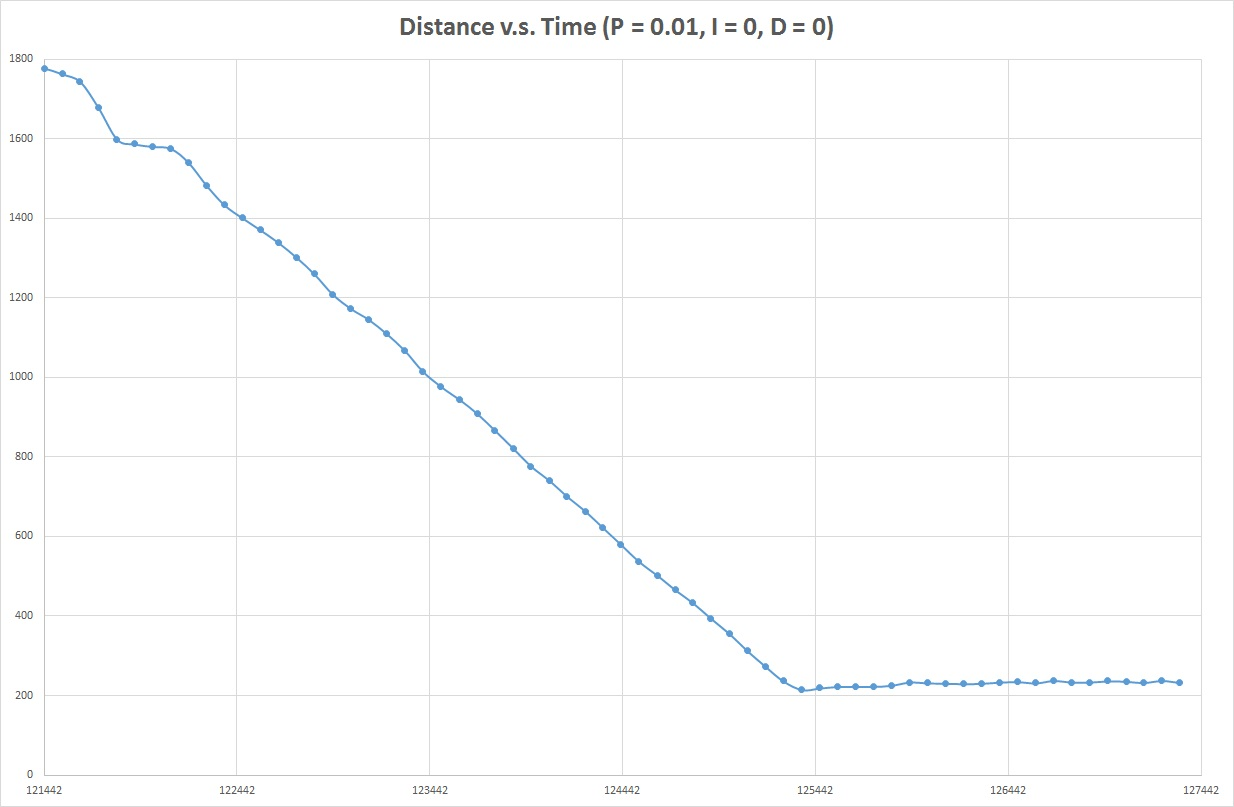
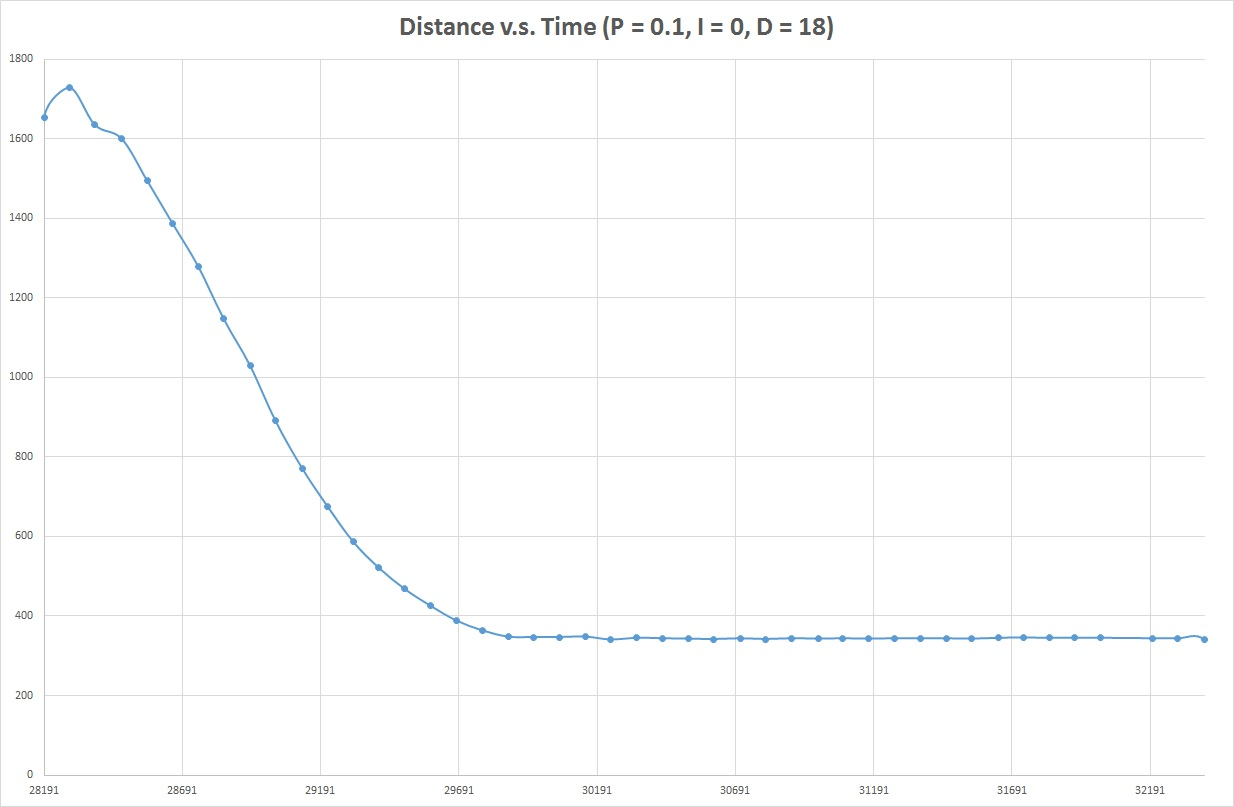
lab6

diff --git a/category/lab6.md b/category/lab6.md
@@ -27,6 +27,14 @@ Also, added a corresponding entry in **connection.yaml**.
 PID_STRING: 'D4FAA1B0-CA9E-457F-BBE3-537DC0B77EBB'
 {% endhighlight %}
 
+Finally, add notify to retrieve data.
+{% highlight python linenos %}
+def receiver(stub, bytearr):
+    print(ble.bybtearray_to_string(bytearr))
+
+ble.start_notify(ble.uuid["PID_STRING"], receiver)
+{% endhighlight %}
+
 ## 2. Task A: Don’t Hit the Wall!!
 
 ### Switched to Pololu ToF library
@@ -235,9 +243,15 @@ void get_tof()
 }
 {% endhighlight %}
 
-I tested P-value starting from 0.01 up to 0.5, and I found **`P = 0.1`** is the one that can let the car reaches full duty cycle with a tiny oscillation.
+I tested P-value starting from 0.01 up to 0.5, and I found **`P = 0.1`** is the one that can let the car reaches full duty cycle with a tiny oscillation. Then I start turning D from 1 up to 20, and found **`D = 18`** is the best choice.
 
-**`P = 0.01`**, able to reach the setpoint without collisions, but too slow.
-**[Video Demo](https://youtu.be/NGF-lzhlSVQ)**
+**`P = 0.1, I = 0, D = 18`**, able to reach the setpoint without collisions.
+**[Video Demo](https://youtu.be/d5MRQMPCLnc)**
 ![](https://github.com/soulkun/ECE5960-Fast-Robots/raw/main/labs/6/1.jpg)
 ![](https://github.com/soulkun/ECE5960-Fast-Robots/raw/main/labs/6/2.jpg)
+
+
+**`P = 0.1, I = 0, D = 0`**, able to reach the setpoint without collisions, but too slow.
+**[Video Demo](https://youtu.be/NGF-lzhlSVQ)**
+![](https://github.com/soulkun/ECE5960-Fast-Robots/raw/main/labs/6/3.jpg)
+![](https://github.com/soulkun/ECE5960-Fast-Robots/raw/main/labs/6/4.jpg)
